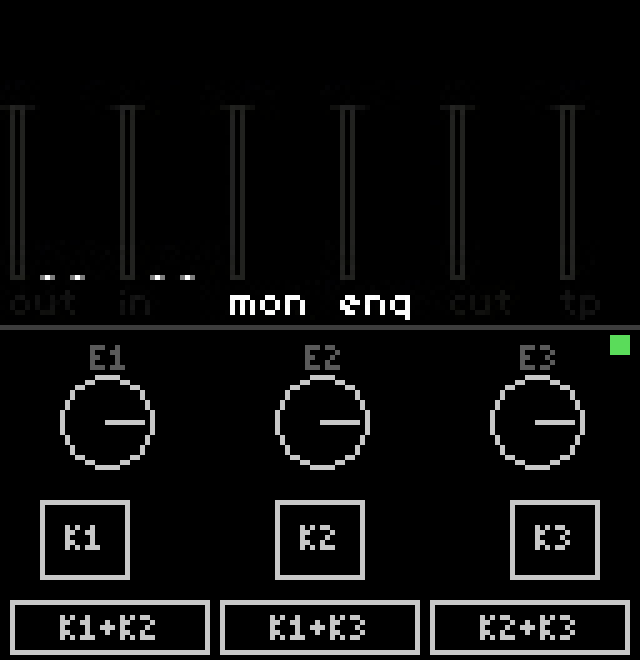
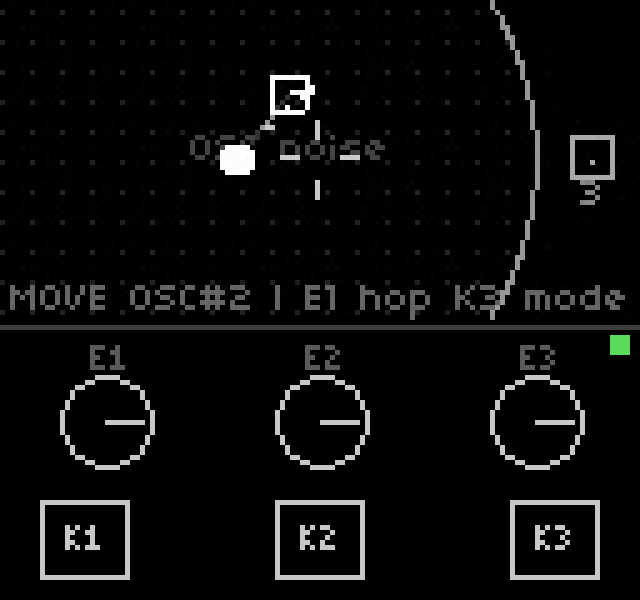
Drop dedicated combo buttons in favor of sticky-modifier play
Latching a key (drag off to hold) then tapping a second key covers all
combos with hardware-like semantics - K1 works like Shift. Combo row
removed, window shortened, screenshot refreshed.

diff --git a/src/ndi_view.cpp b/src/ndi_view.cpp
@@ -23,7 +23,7 @@
 #include <Processing.NDI.Lib.h>
 
 // ---------------- config ----------------
-static const int   LW = 128, LH = 132;     // logical canvas
+static const int   LW = 128, LH = 120;     // logical canvas
 static const int   SCALE = 5;
 static const float WHEEL_PER_DETENT = 3.f; // wheel sensitivity (higher = less sensitive)
 
@@ -270,9 +270,6 @@ int main(int argc, char** argv) {
         {{  8, 100, 18, 16}, "K1", {1, 0}, 1},
         {{ 55, 100, 18, 16}, "K2", {2, 0}, 1},
         {{102, 100, 18, 16}, "K3", {3, 0}, 1},
-        {{  2, 120, 40, 11}, "K1+K2", {1, 2}, 2},
-        {{ 44, 120, 40, 11}, "K1+K3", {1, 3}, 2},
-        {{ 86, 120, 40, 11}, "K2+K3", {2, 3}, 2},
     };
     const int NBTN = sizeof buttons / sizeof buttons[0];
     EncZone encs[] = {

diff --git a/README.md b/README.md
@@ -23,11 +23,8 @@ support needed.
 
 - Live screen view, pixel-perfect integer scaling, resizable window
 - **K1 / K2 / K3** — click to tap; press and drag off the button to leave it
-  held; click again to release
-- **K1+K2 / K1+K3 / K2+K3** — dedicated combo buttons: both key-downs sent
-  atomically (single REPL line), with a 250 ms minimum hold so scripts see a
-  deliberate overlapping press even on a fast click (`COMBO_MIN_HOLD_MS` in
-  `src/ndi_view.cpp`)
+  held ("sticky"); click again to release. Combos are played the way the
+  hardware encourages: stick K1 like a Shift key, then tap K2/K3.
 - **E1 / E2 / E3** — hover and scroll; 3 wheel ticks per encoder detent so
   values don't fly off (`WHEEL_PER_DETENT`)
 - Connection status dot (green = control channel live, red = dropped)
